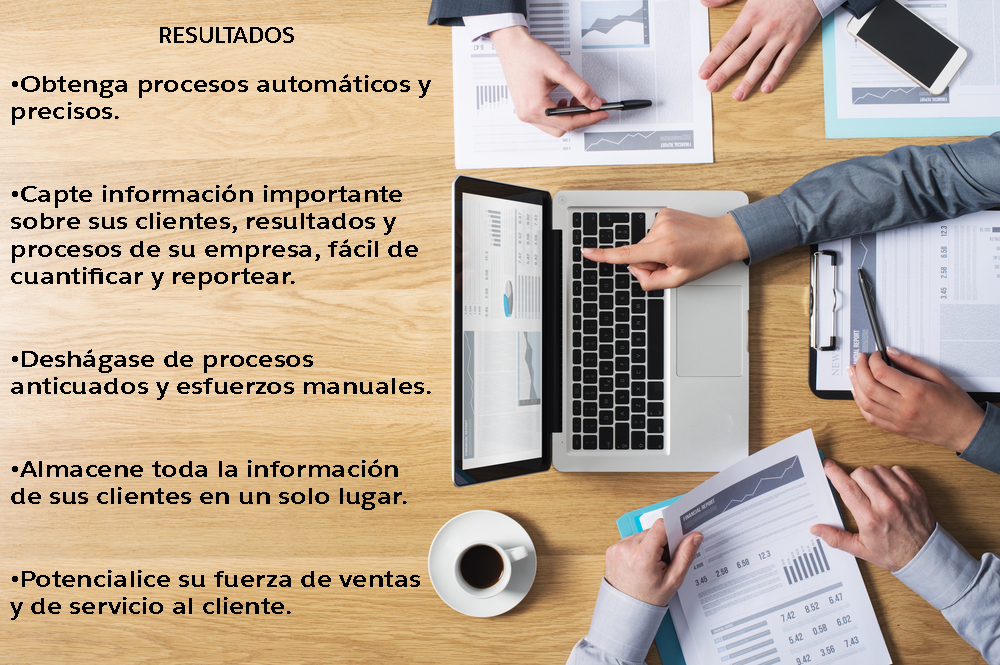
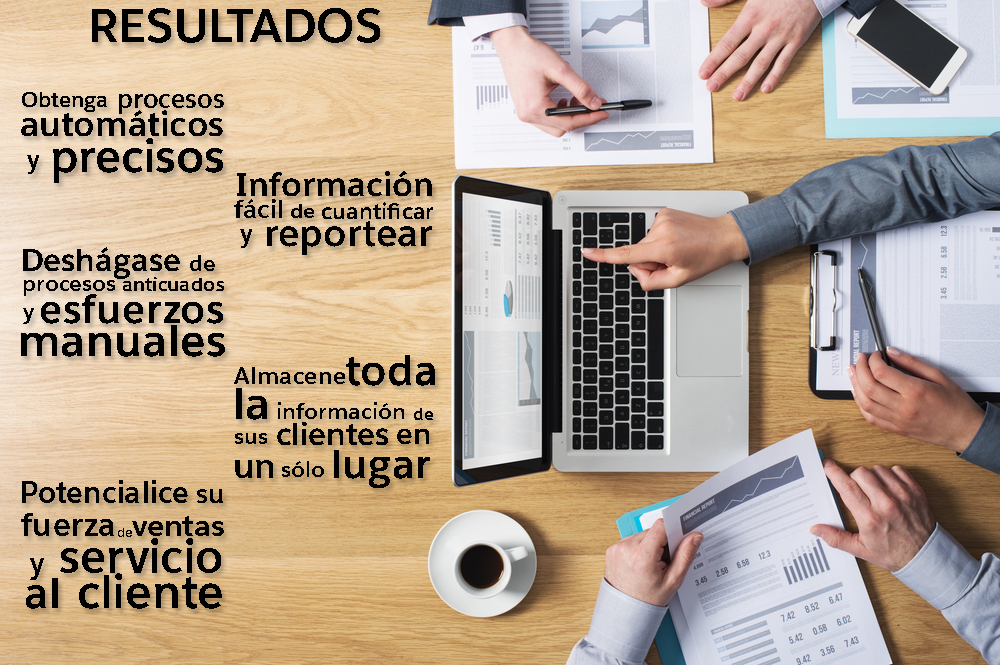
cambios de imgs

Changed region(s): [[0.0, 0.1203, 0.434, 0.9323], [0.093, 0.0, 0.403, 0.0902]]

diff --git a/portfoliosingleproject.html b/portfoliosingleproject.html
@@ -164,7 +164,7 @@
 						<ul class="slides">
 							<!-- BEGIN SLIDE -->
 							<li class="slide thumbnail">
-								  <img src="images/QUE HACEMOS.jpg" alt="" /><!-- PUT YOUR IMG HERE-->
+								  <img src="images/incremente.png" alt="" /><!-- PUT YOUR IMG HERE-->
 							</li>
 							<!-- END SLIDE -->
 							
